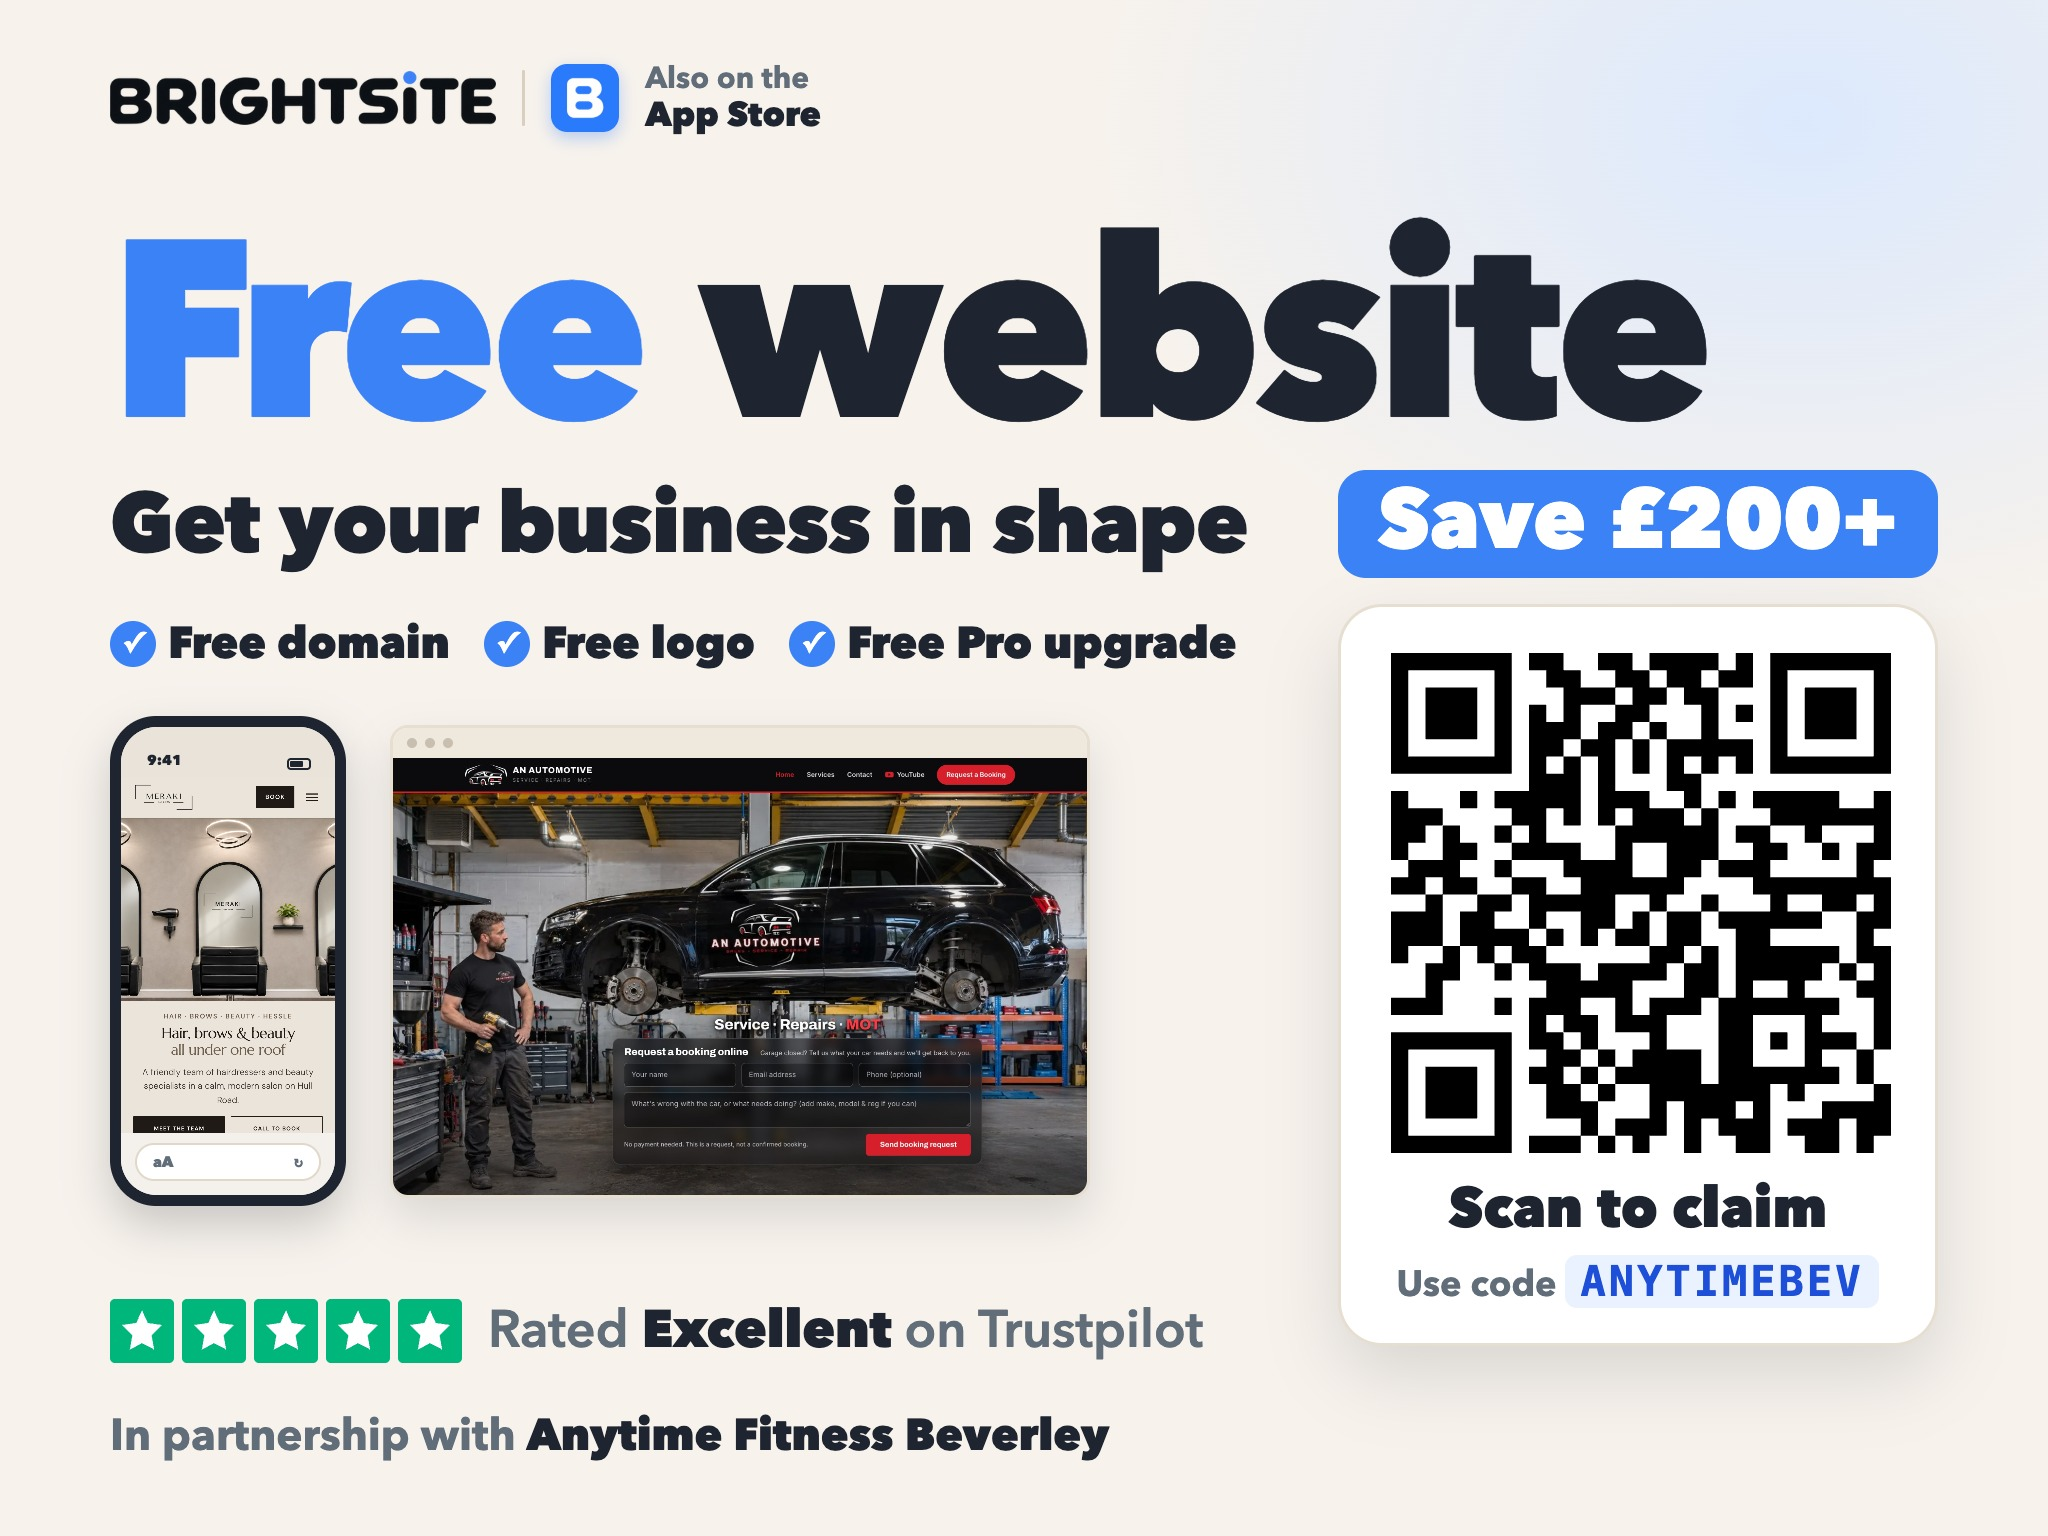
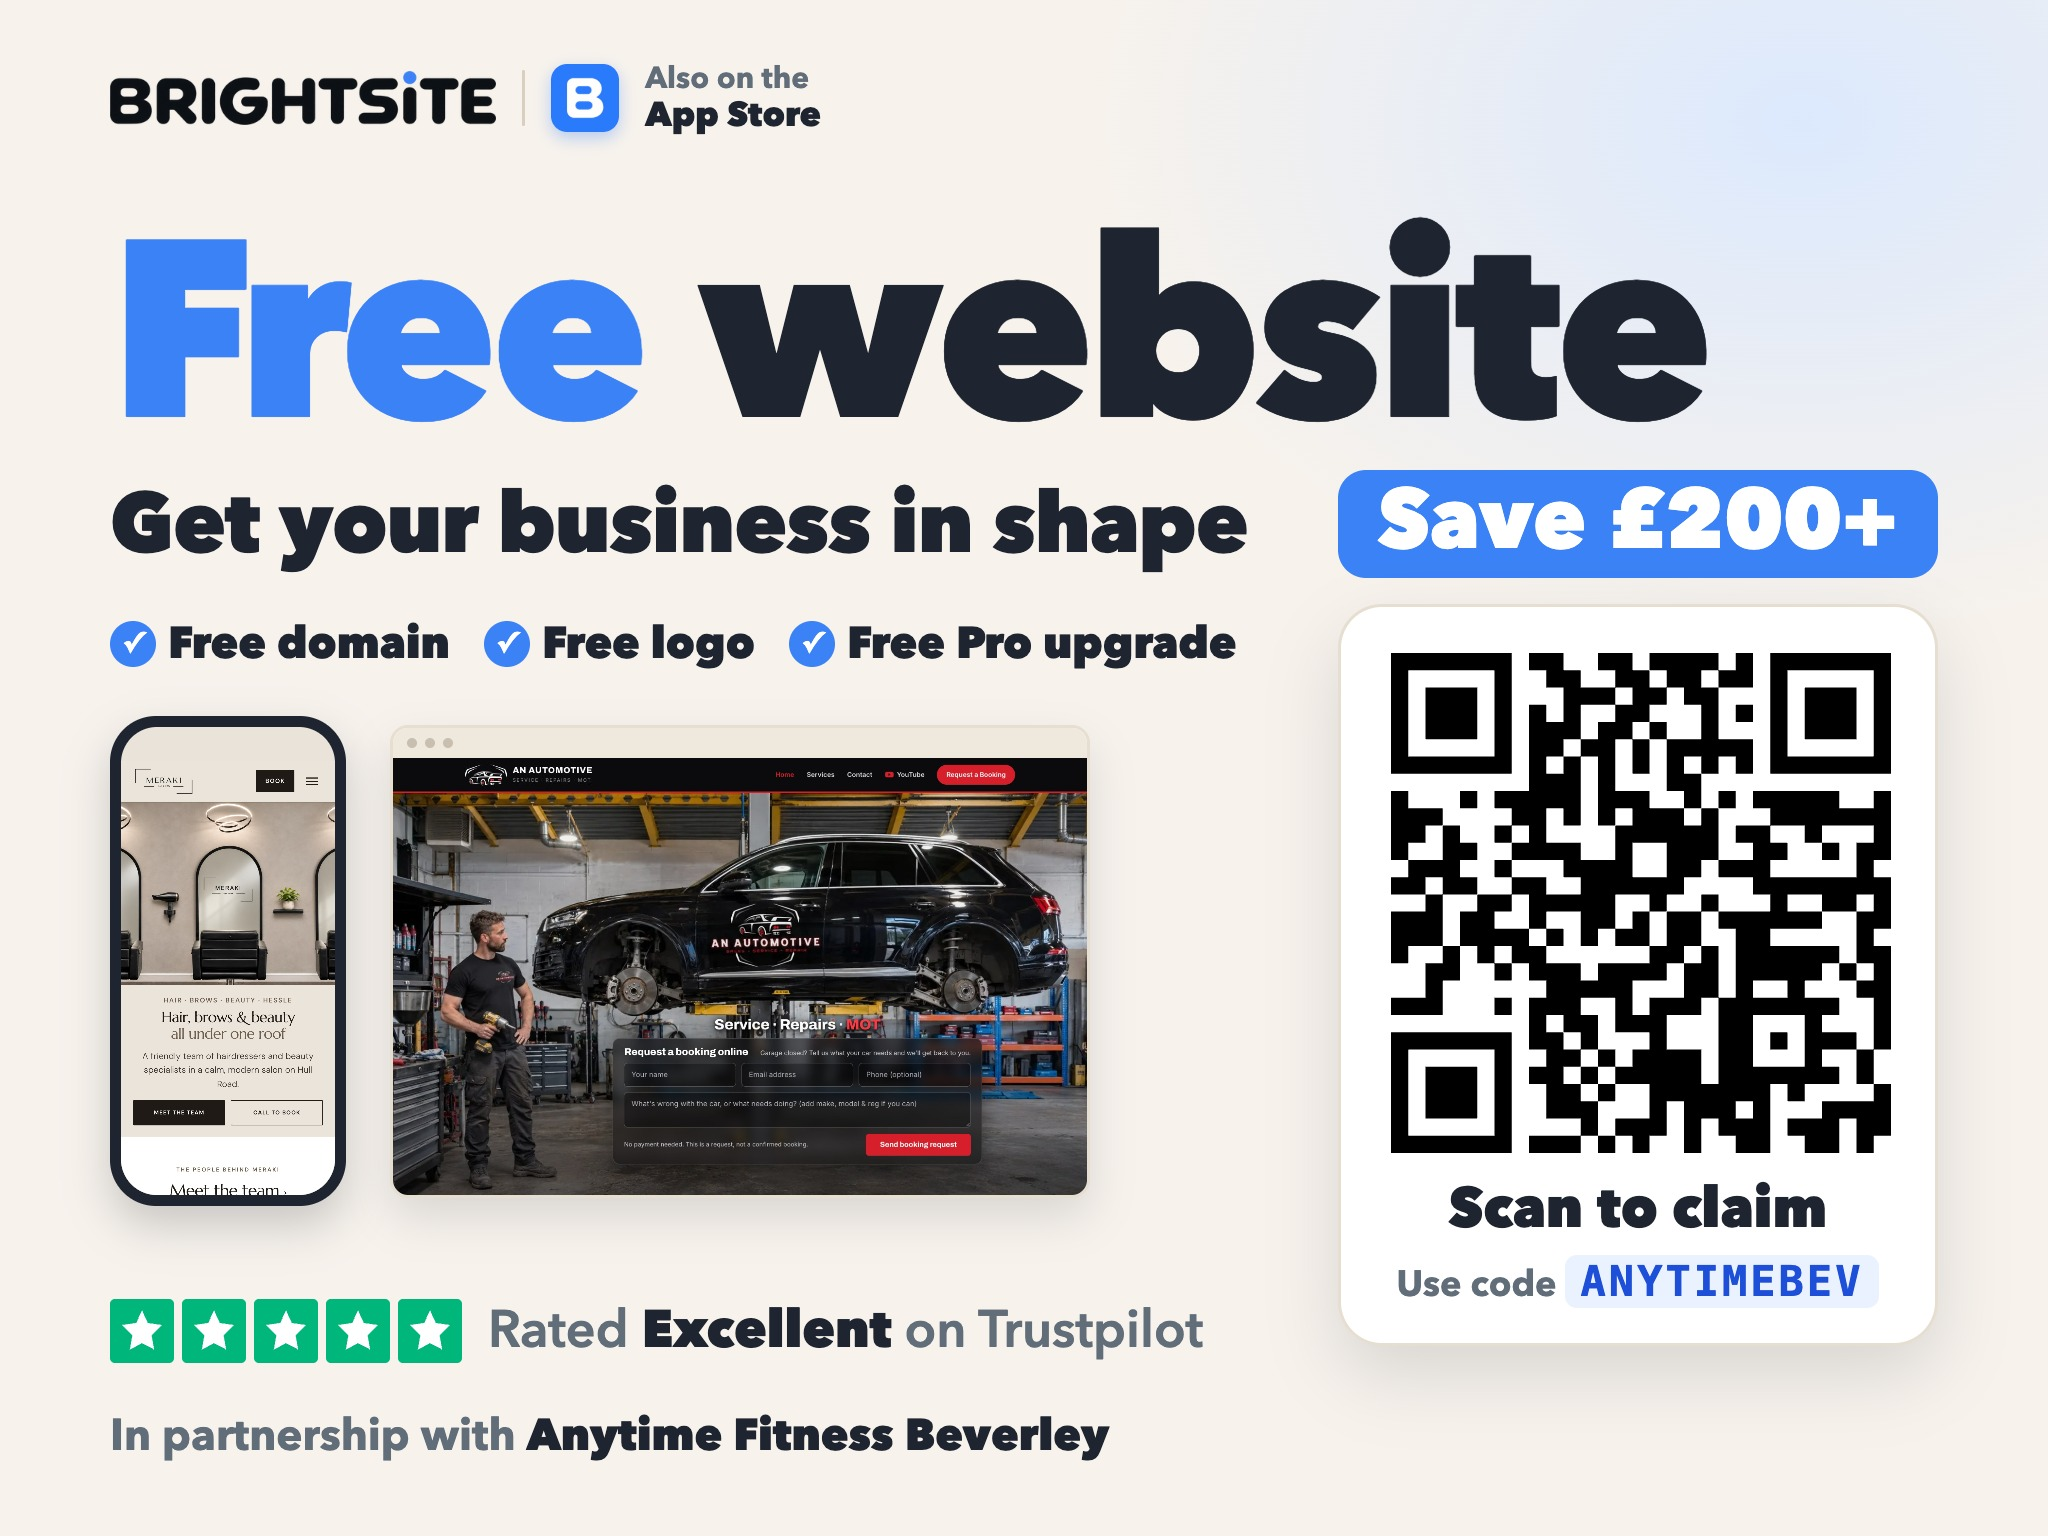
Beverley poster: phone mockup back to plain frame, site moved down a little

Changed region(s): [[0.0625, 0.5, 0.1875, 0.7812], [0.1562, 0.5312, 0.1875, 0.5625]]

diff --git a/ads/beverley-poster.html b/ads/beverley-poster.html
@@ -38,12 +38,8 @@
   .foot{position:absolute;left:110px;bottom:70px;font-size:44px;font-weight:700;color:#616D79}
   .foot b{color:#1F2530}
   .phone{width:236px;height:490px;background:#1F2530;border-radius:46px;padding:11px;box-shadow:0 20px 44px rgba(31,37,48,.22);position:relative}
-  .phone .screen{width:100%;height:100%;border-radius:36px;overflow:hidden;background:#fff;display:flex;flex-direction:column}
-  .phone .status{flex:none;height:50px;background:#EAE3D9;display:flex;justify-content:space-between;align-items:flex-end;padding:0 24px 7px 26px;font-size:14px;font-weight:800;color:#1F2530}
-  .phone .batt{width:24px;height:12px;border:2px solid #1F2530;border-radius:4px;position:relative}
-  .phone .batt::after{content:"";position:absolute;inset:1px;background:#1F2530;border-radius:1px;width:65%}
-  .phone .safari{flex:none;height:62px;background:#F4F1ED;padding:10px 14px 0}
-  .phone .pill{height:38px;border-radius:19px;background:#fff;border:2px solid #E1D8CA;display:flex;justify-content:space-between;align-items:center;padding:0 16px;color:#616D79;font-size:15px;font-weight:800}
+  .phone .screen{width:100%;height:100%;border-radius:36px;overflow:hidden;background:#EAE3D9;display:flex;flex-direction:column;padding-top:34px}
+
   .phone img{display:block;width:100%;flex:1;min-height:0;object-fit:cover;object-position:top}
 </style></head>
 <body><div class="poster">
@@ -56,7 +52,7 @@
     <div><i>&#10003;</i>Free Pro upgrade</div>
   </div>
   <div class="sites">
-    <div class="phone"><div class="screen"><div class="status"><span>9:41</span><span class="batt"></span></div><img src="meraki-mobile.jpg"><div class="safari"><div class="pill"><span>aA</span><span>&#8635;</span></div></div></div></div>
+    <div class="phone"><div class="screen"><img src="meraki-mobile.jpg"></div></div>
     <div class="site"><div class="bar"><i></i><i></i><i></i></div><img src="an-automotive-hero.jpg"></div>
   </div>
   <div class="col">
